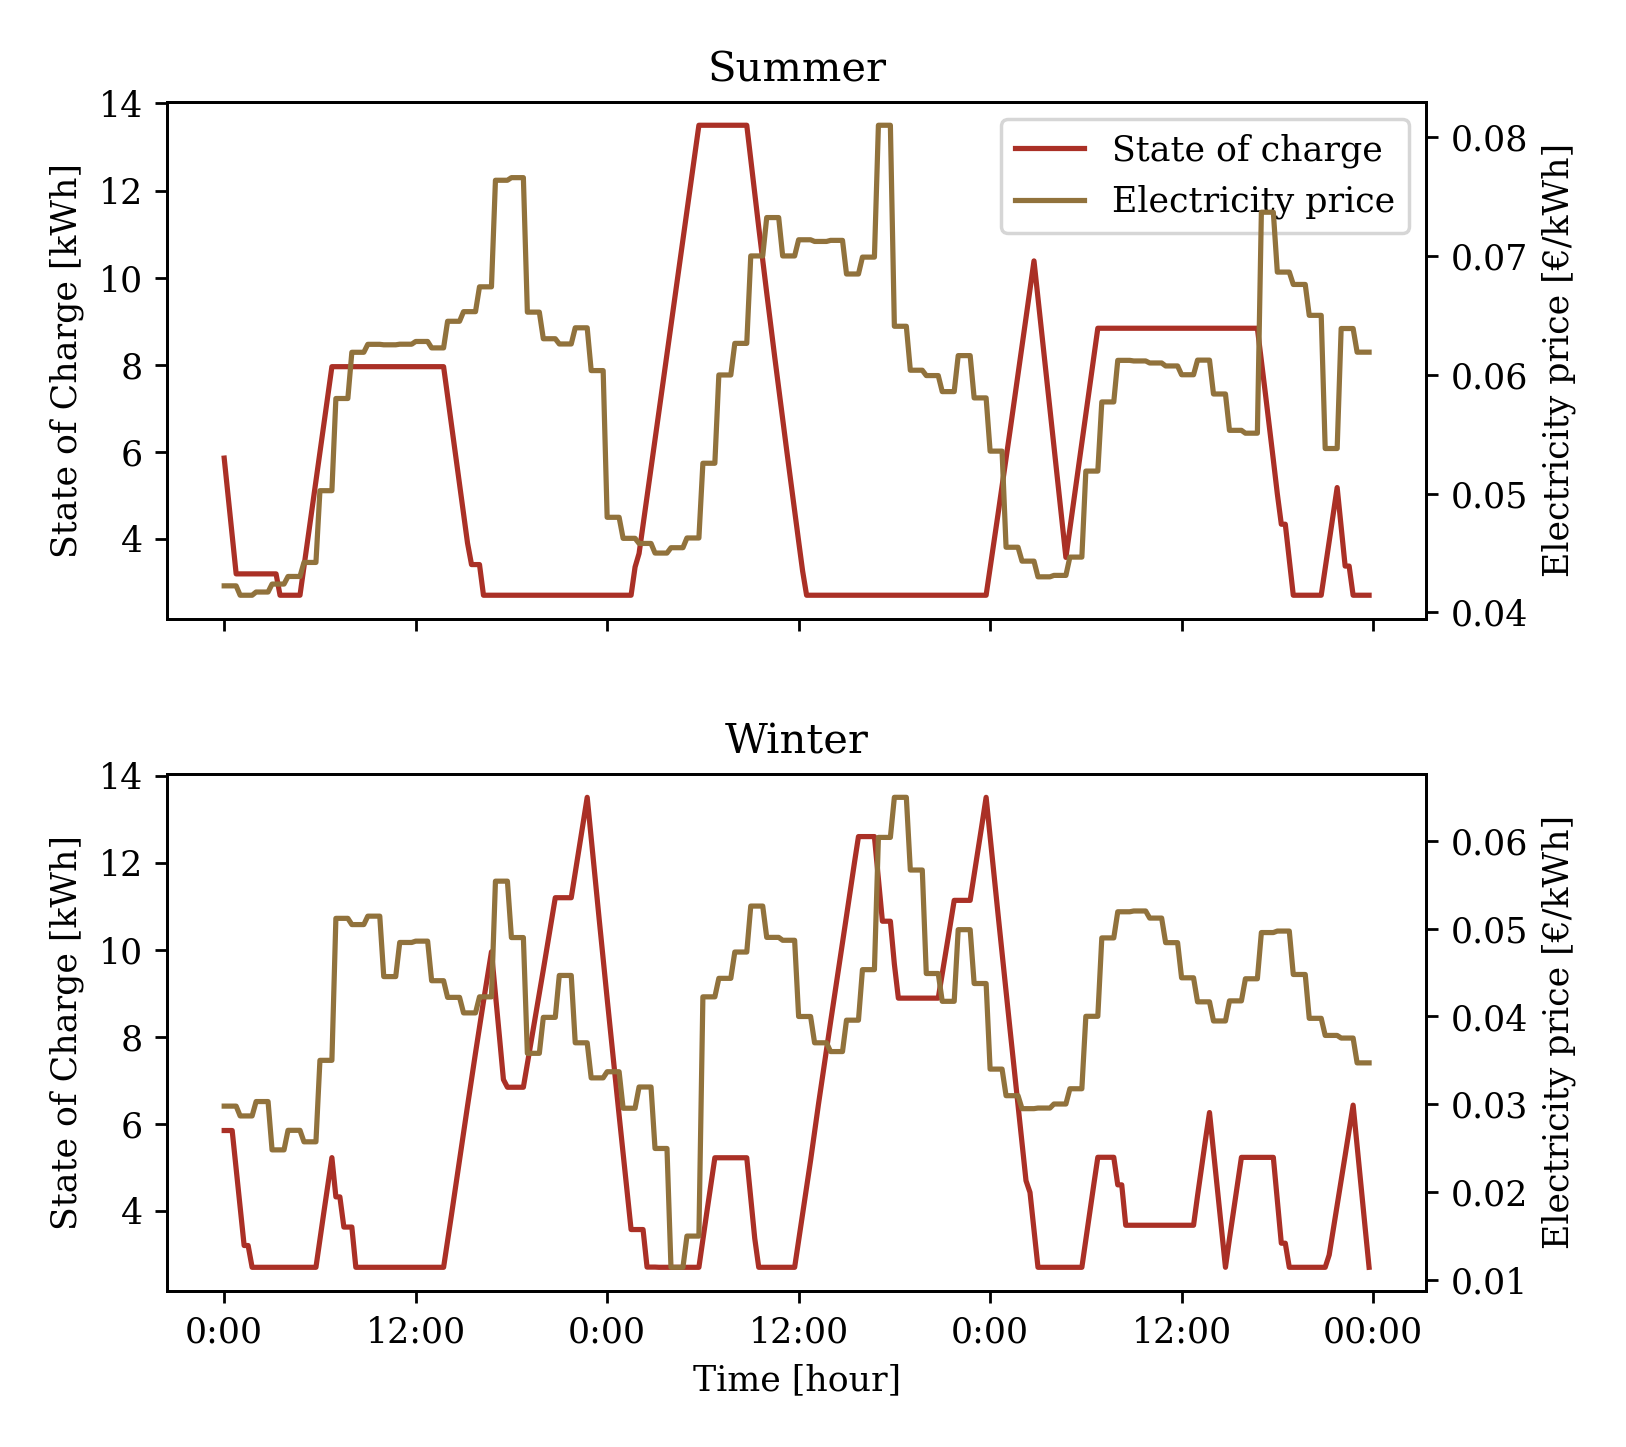
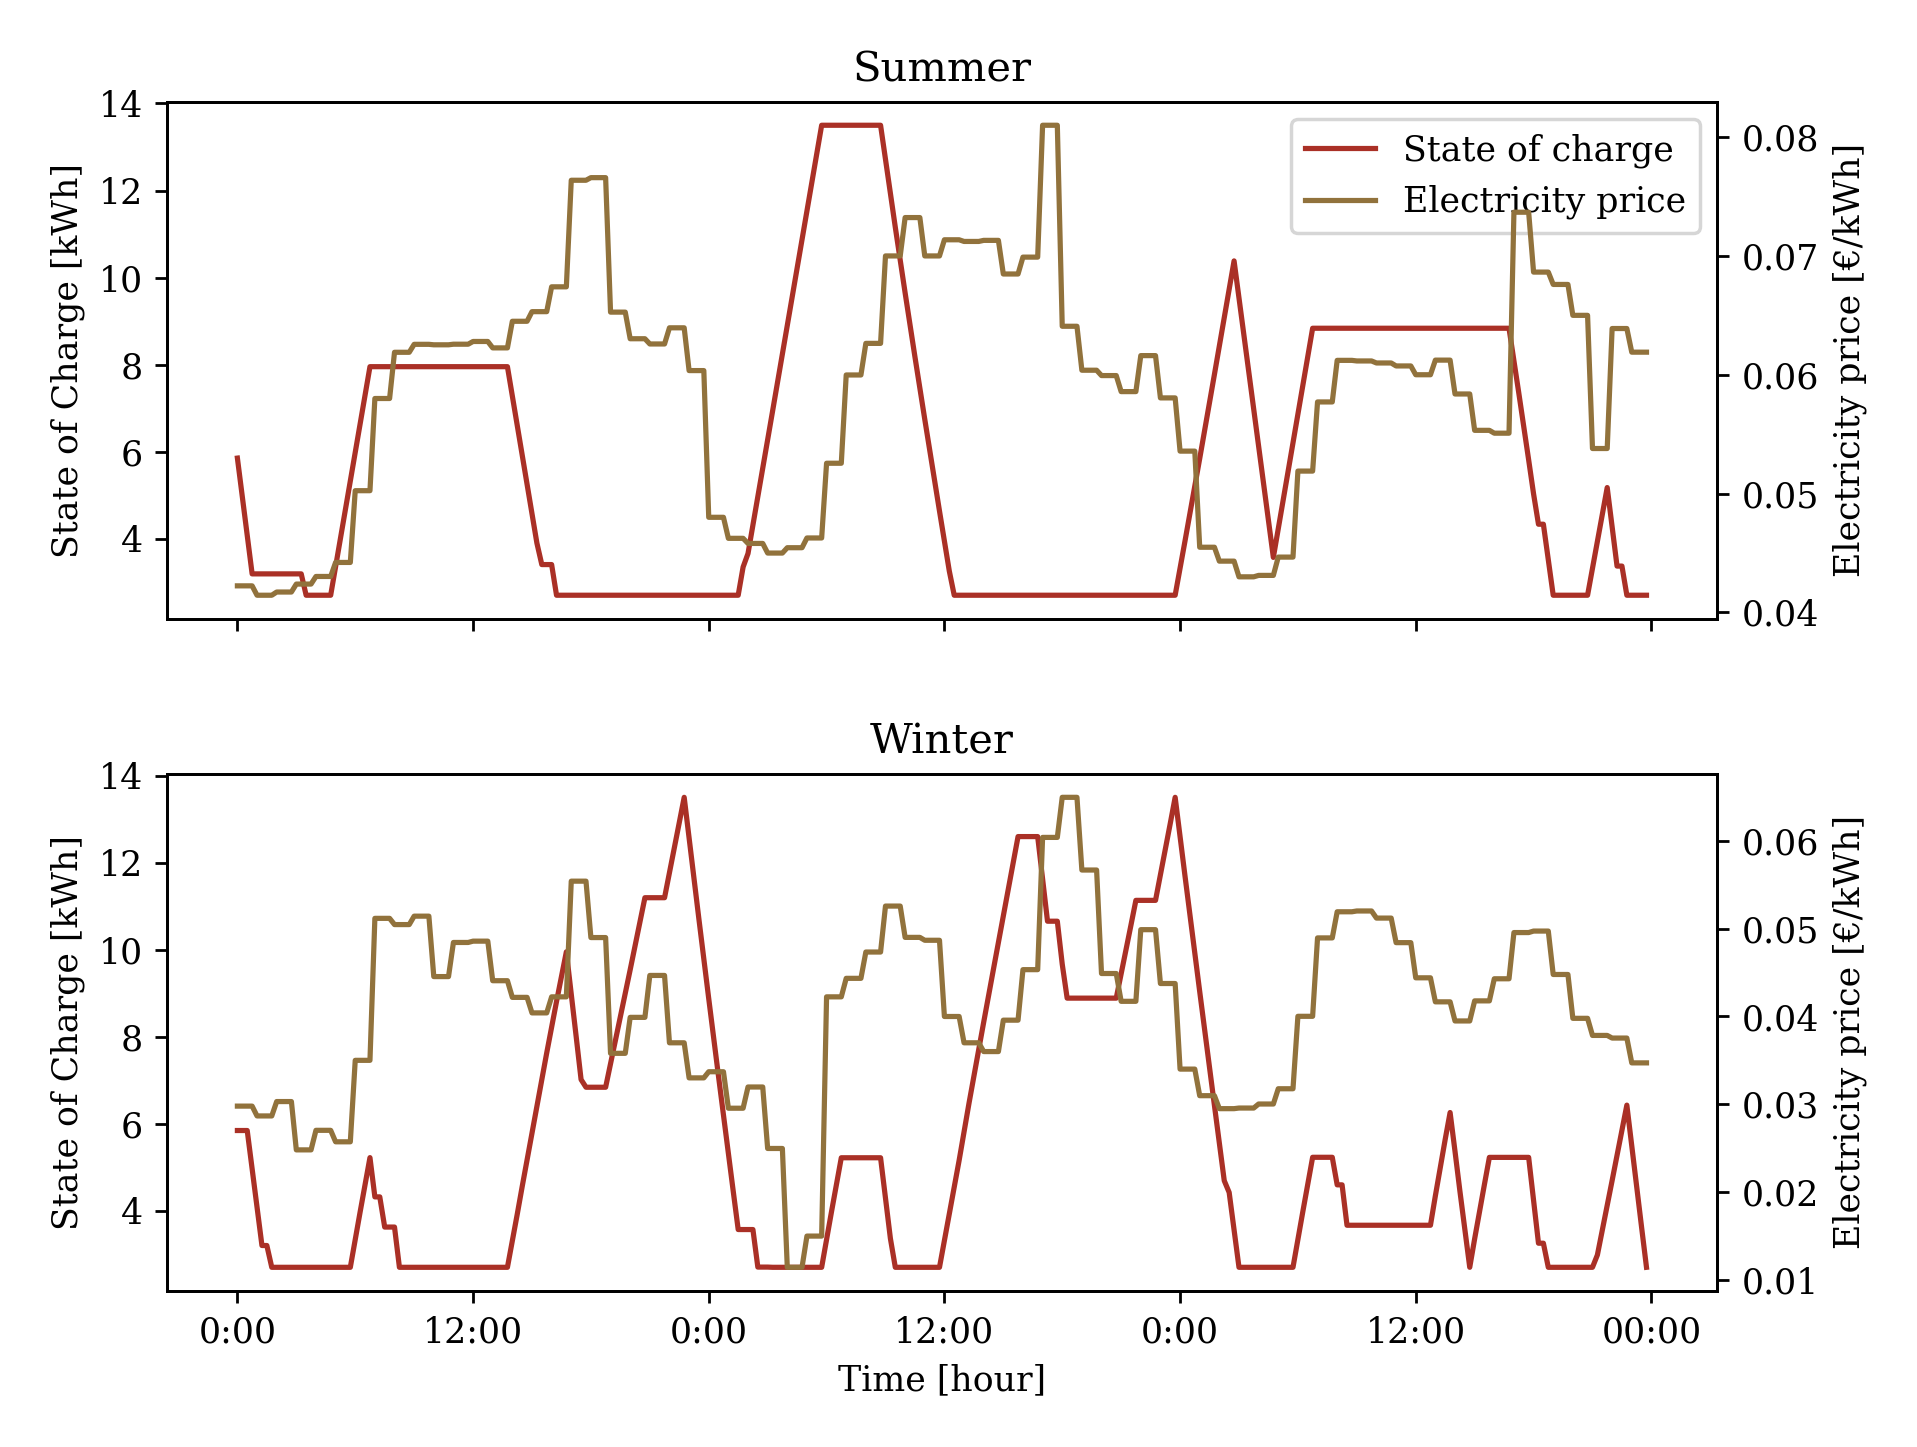
fix: Change the sizing of the plots

diff --git a/src/plots.py b/src/plots.py
@@ -16,9 +16,10 @@ def create_plot_with_subplots(rows, columns, *, xlabel, ylabel, sharex=True, sha
         axes: Created axes
     """
     # Create a figure with subplots and set the correct spacing
-    width = 6.5 * columns ** (1 / 3)
+    width = 8 * columns ** (1 / 3)
     height = 5 * rows ** (1 / 3)
-    figure, axes = plt.subplots(nrows=rows, ncols=columns, sharex=sharex, sharey=sharey, figsize=(width, height))
+    figure, axes = plt.subplots(
+        nrows=rows, ncols=columns, sharex=sharex, sharey=sharey, figsize=(width, height))
     figure.subplots_adjust(wspace=0.05, hspace=0.15 * rows)
 
     # Set the labels on the outer x and y axis
